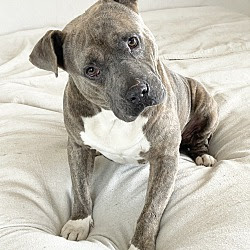
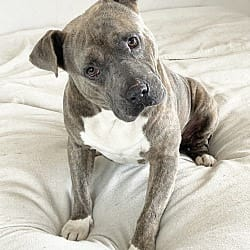
image compression.P

diff --git a/pages/index.vue b/pages/index.vue
@@ -90,7 +90,7 @@ const combinedPosts = [
           </div>
         </div>
         <div class="lg:flex gap-6">
-          <NuxtImg src="/images/josh-biz-cazsh.webp" fit="cover" preload alt="Joshua Briley, UX Engineer" height="300" width="300" class="size-20 xl:size-28 rounded-full shrink-0" />
+          <NuxtImg src="/images/josh-biz-cazsh.jpg" fit="cover" preload alt="Joshua Briley, UX Engineer" height="300" width="300" class="size-20 xl:size-28 rounded-full shrink-0" />
           <div class="prose">
             <h2>Who am I?</h2>
             <p>I'm a design systems engineer with 20 years of experience helping teams build consistent, accessible

diff --git a/pages/about.vue b/pages/about.vue
@@ -71,7 +71,7 @@ const resumeItems = [
   <PageWrapper>
 
     <section class="prose">
-      <NuxtImg src="/images/josh-biz-cazsh.webp" alt="Joshua Briley, UX Engineer" height="300" width="300" class="w-full h-auto lg:w-48 lg:h-48 rounded-2xl lg:rounded-full lg:mx-auto mb-6 lg:float-right lg:ml-12 lg:mb-0 object-cover object-top" />
+      <NuxtImg src="/images/josh-biz-cazsh.jpg" alt="Joshua Briley, UX Engineer" height="300" width="300" class="w-full h-auto lg:w-48 lg:h-48 rounded-2xl lg:rounded-full lg:mx-auto mb-6 lg:float-right lg:ml-12 lg:mb-0 object-cover object-top" />
       <PageHeader>
         About me
       </PageHeader>
